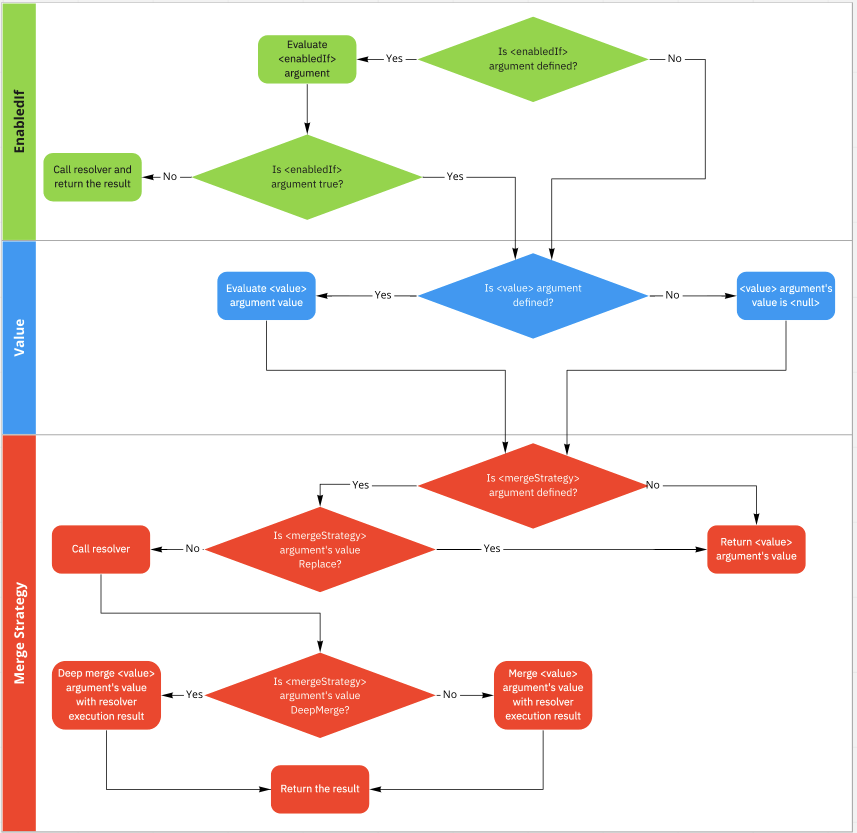
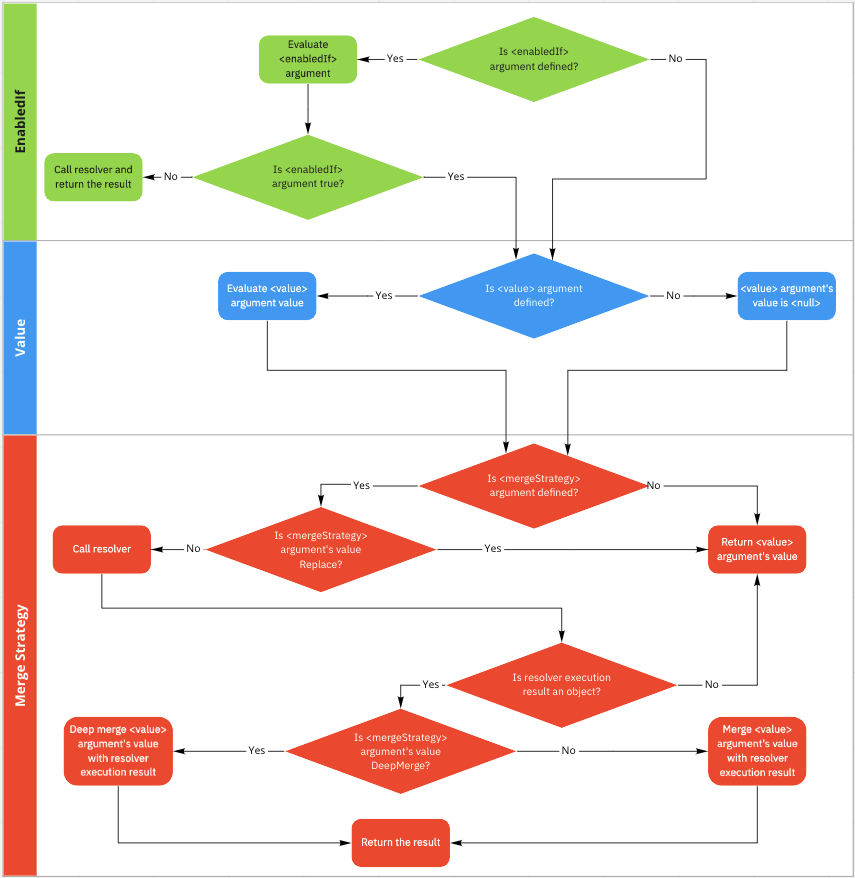
Fix @localResolver merge strategy bug (#321)

diff --git a/services/src/modules/directives/local-resolver.spec.ts b/services/src/modules/directives/local-resolver.spec.ts
@@ -145,6 +145,41 @@ const testCases: [string, TestCase][] = [
     },
   ],
   [
+    'MergeDeep - original resolver return non-object',
+    {
+      typeDefs: gql`
+        type SomeType2 {
+          field1: String!
+          field2: String
+        }
+
+        type NestedType {
+          nestedField: SomeType2!
+        }
+
+        type Query {
+          foo: NestedType! @localResolver(value: { nestedField: { field1: "mergedDeep" } }, mergeStrategy: MergeDeep)
+        }
+      `,
+      query: gql`
+        query {
+          foo {
+            nestedField {
+              field1
+              field2
+            }
+          }
+        }
+      `,
+      expected: { foo: { nestedField: { field1: 'mergedDeep', field2: null } } },
+      resolvers: {
+        Query: {
+          foo: () => 'Hey',
+        },
+      },
+    },
+  ],
+  [
     'Replace',
     {
       typeDefs: gql`

diff --git a/services/src/modules/directives/local-resolver.ts b/services/src/modules/directives/local-resolver.ts
@@ -94,7 +94,7 @@ function calculateReturnValue(
   if (mergeStrategy === MergeStrategy.Replace) return stubValue;
 
   if (!isObject(stubValue)) throw new Error(invalidValueArgumentTypeErrorMessage);
-  if (!isObject(originalValue)) throw new Error(`Resolver result isn't an object`);
+  if (!isObject(originalValue)) return stubValue;
 
   return mergeStrategy === MergeStrategy.MergeDeep
     ? lodash.merge(originalValue, stubValue)
